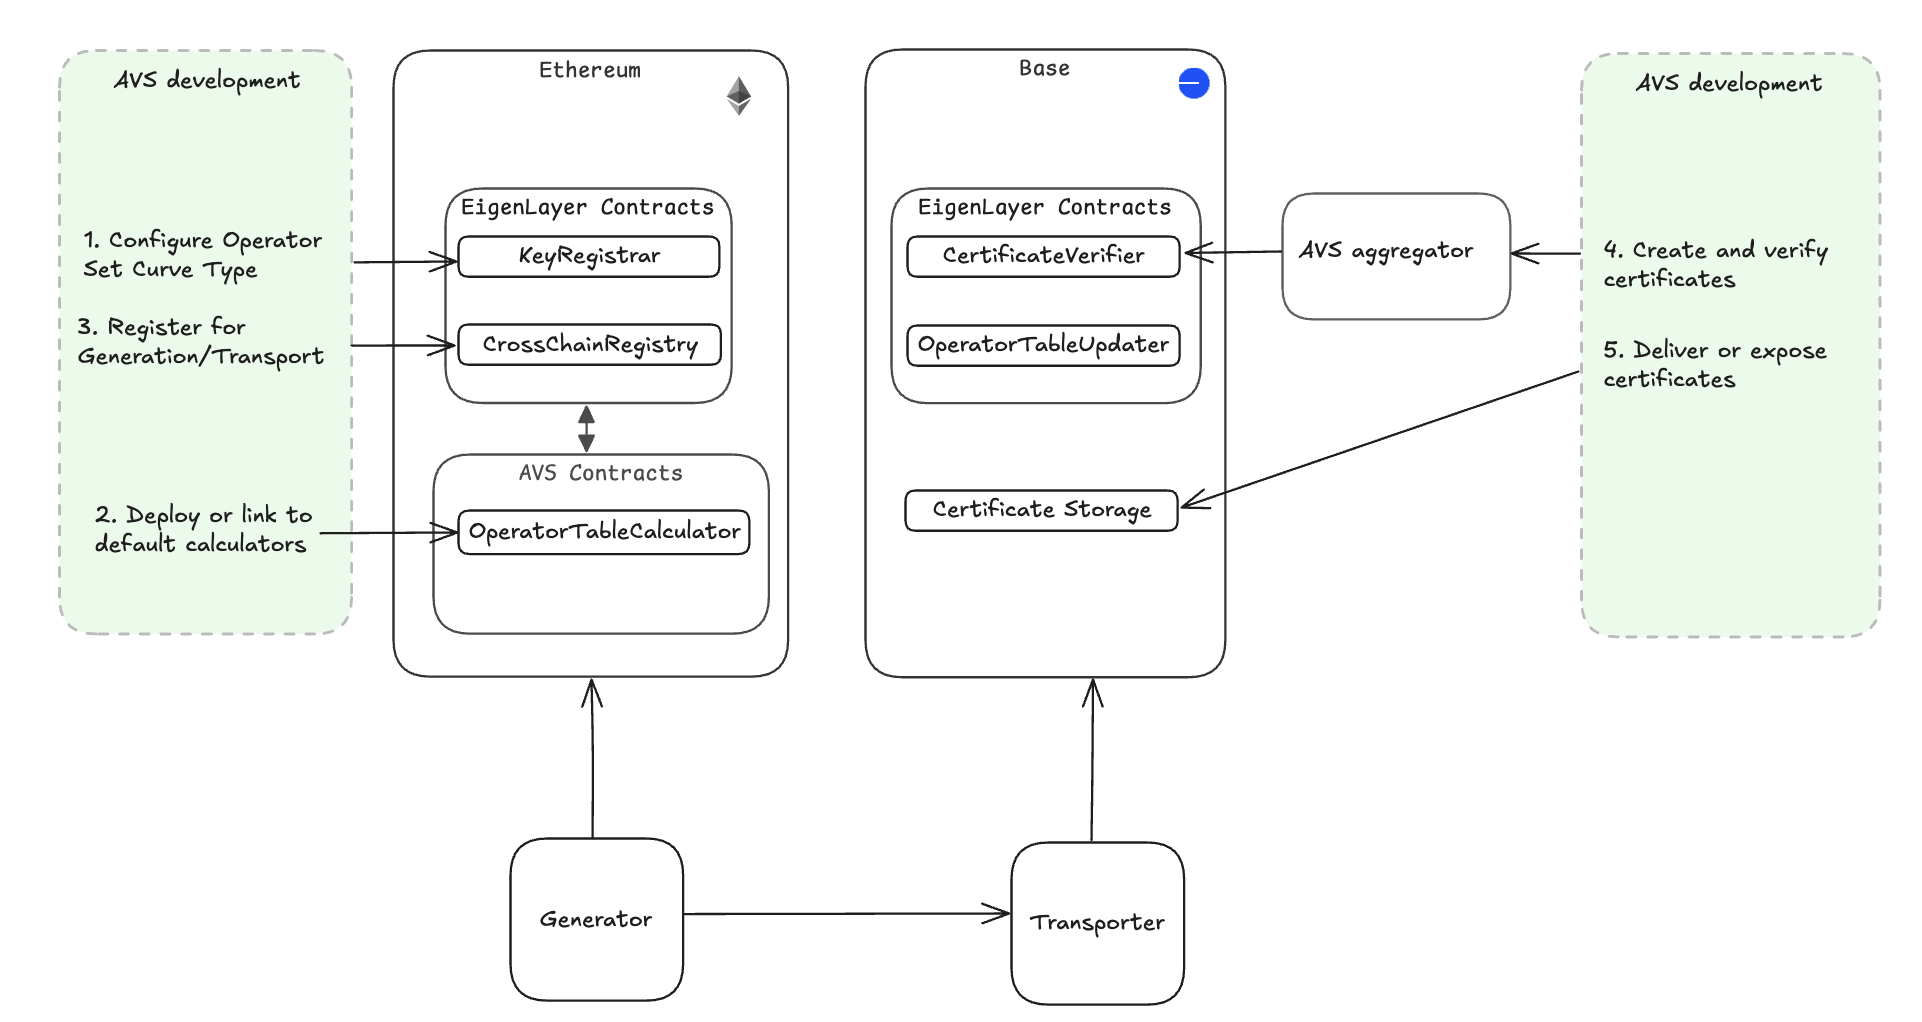
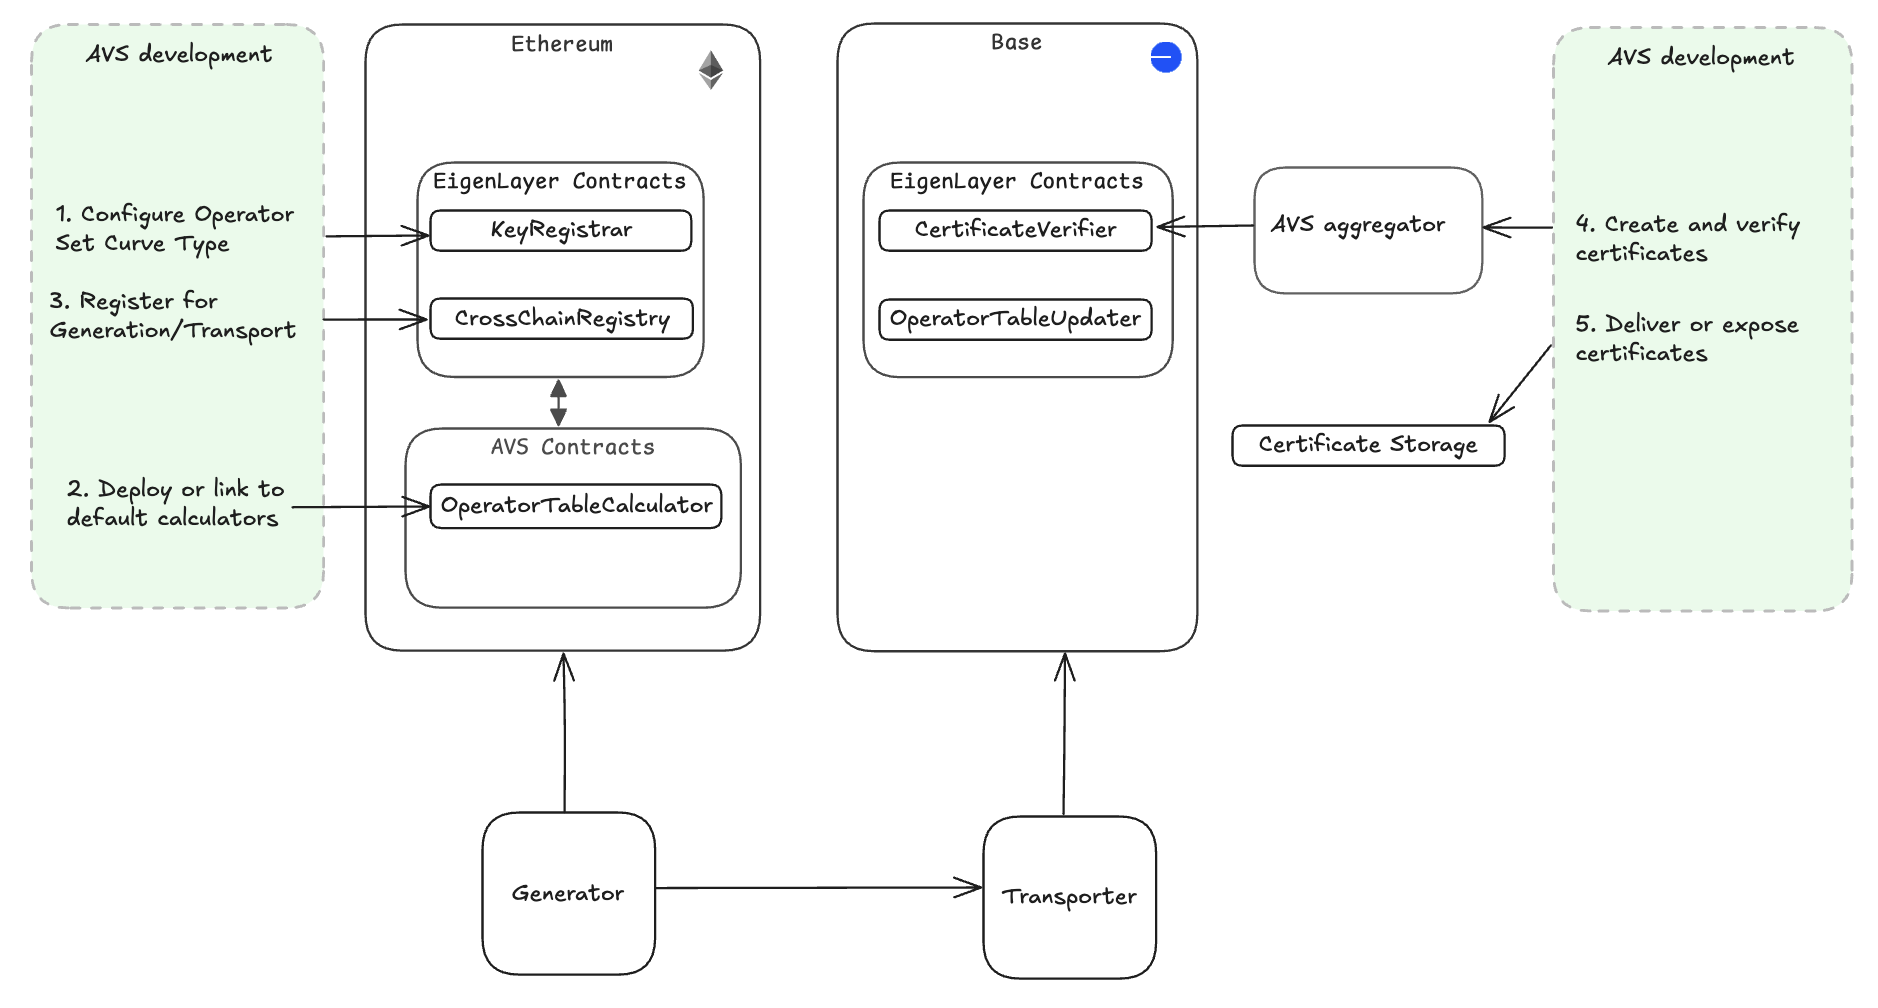
review rework

diff --git a/docs/products/eigenlayer/developers/howto/build/multichain/configure-multichain.md b/docs/products/eigenlayer/developers/howto/build/multichain/configure-multichain.md
@@ -9,7 +9,8 @@ Multichain verification is early-access and in active development. Expect iterat
 Multichain implements [ELIP-008 EigenLayer Multichain Verification](https://github.com/eigenfoundation/ELIPs/blob/main/ELIPs/ELIP-008.md) and is available on testnet in v1.7.0.
 :::
 
-The diagram illustrates the high level steps to configure multichain verification and create a generation reservation: 
+The diagram illustrates the high level steps to configure multichain verification and create a reservation for a participating
+AVS in the multichain verification framework: 
 
 <img src="/img/multichain-registration.png" alt="Multichain Implementation" width="600"/>
 
@@ -17,23 +18,23 @@ Implementers of multichain verification need to:
 1. [Configure Operator Set curve type](#1-configure-operator-set-curve-type)
 2. [Deploy Operator table calculator](#2-deploy-operator-table-calculator)
 3. [(Optional) View the registered cryptographic keys for your Operator Set](#3-optional-view-the-registered-cryptographic-keys-for-your-operator-set)
-4. [Opt-in to multichain](#4-opt-in-to-multichain)
+4. [Opt-in to multichain](#4-opt-in-to-multichain-and-create-a-generation-reservation)
 5. [Wait for deployment](#5-wait-for-deployment)
 
 ## 1. Configure Operator Set Curve Type
 
 1. Decide on the cryptographic curve type for Operator keys. Choose ECDSA for less than 30 Operators, or BN254 BLS for more than 30 Operators.
 2. [Create the Operator Set](../operator-sets/create-operator-sets.md). 
-3. [Set the `KeyType` in `KeyRegistrar`](https://github.com/Layr-Labs/eigenlayer-contracts/blob/v1.7.0-rc.4/docs/permissions/KeyRegistrar).
+3. [Set the `KeyType` in `KeyRegistrar`](https://github.com/Layr-Labs/eigenlayer-contracts/blob/v1.8.0-rc.0/docs/permissions/KeyRegistrar.md).
 
 ## 2. Deploy Operator Table Calculator
 
-Deploy the `OperatorTableCalculator` contract to define stake weighting logic.
+[Deploy the `OperatorTableCalculator` contract to define stake weighting logic.](https://github.com/Layr-Labs/eigenlayer-middleware/blob/dev/docs/middlewareV2/OperatorTableCalculator.md)
 
 To use the as-is unweighted stakes, deploy the template `ECDSATableCalculatorBase` or `BN254TableCalculatorBase` contract.
 The contract can be upgraded. Alternatively, use the onchain [default unweighted contract provided by EigenLabs](https://github.com/Layr-Labs/eigenlayer-middleware?tab=readme-ov-file#current-middlewarev2-testnet-deployment).
 
-To define custom stake weighting logic, override `calculateOperatorTable()` to add:
+To define custom stake weighting logic, override [`calculateOperatorTable()`](https://github.com/Layr-Labs/eigenlayer-middleware/blob/dev/docs/middlewareV2/OperatorTableCalculator.md#calculateoperatortable) to add:
 - Asset weighting (for example, ETH 3500x vs. stablecoins),
 - Stake capping per operator,
 - Oracle price feed integration,
@@ -60,7 +61,7 @@ The `staleness` parameter is the length of time that a [certificate](verificatio
 A `staleness` period of `0` completely removes staleness checks, allowing certificates to be validated regardless of their timestamp. The `staleness` must be greater than the update cadence of the Operator tables (communciated offchain 
 and currently 7 days). 
 
-The caller must have UAM permissions for `operatorSet.avs`. 
+The caller must have [UAM permissions](../../../concepts/uam-for-avs.md) for `operatorSet.avs`. 
 
 ## 5. Wait for deployment
 

diff --git a/docs/products/eigenlayer/developers/howto/build/multichain/consume-certificates.md b/docs/products/eigenlayer/developers/howto/build/multichain/consume-certificates.md
@@ -1,25 +1,28 @@
 ---
-sidebar_position: 5
+sidebar_position: 4
 title: Consume certificates
 ---
 
-The AVS consumer is a smart contract, application, or protocol integrating with an AVS. They receive, verify, 
-and act on certificates returned from the AVS. To do that, consumers:
+## Obtain, Verify, and Act On Certificates
 
-1. Obtain a Certificate. Depending on the AVS integration model, consumers certificates by:
+An AVS consumer is a smart contract, application, or protocol integrating with an AVS. The consumer receives, verifies, 
+and acts on certificates returned from the AVS. To do that, consumers:
+
+1. Obtain a Certificate. Depending on the AVS integration model, consumers obtain certificates by:
    * Making a request (for example, API call or onchain function) to the AVS.
+   * Reading onchain.
    * Polling from decentralized storage.
    
     :::important
     If retrieving from a cache, consumers need to check the staleness period against the certificate.
-    The `staleness` period is set in the [`CrossChainRegistry` by the verification service](configure-multichain).
+    The `staleness` period is set in the [`CrossChainRegistry` by the AVS](configure-multichain).
     :::
 
-2. Use the `CertificateVerifier` contract to [verify the certificate](verification-methods.md). 
+2. Use the [`CertificateVerifier`](https://github.com/Layr-Labs/eigenlayer-contracts/blob/v1.8.0-rc.0/docs/multichain/destination/CertificateVerifier.md) contract to [verify the certificate](verification-methods.md). 
 
 3. Once the verification passes, the consumer can act on the AVS output. For example:
-   * Use the AVS result (for example, a price, proof, or attestation)
-   * Trigger follow-up logic (for example, settlement, payout, update)
+   * Use the AVS result (for example, a price, proof, or attestation).
+   * Trigger follow-up logic (for example, settlement, payout, update).
    * Log or cache the certificate for transparency or auditability.
 
 ## Integration Examples
@@ -60,5 +63,5 @@ The `staleness` period is set in the [`CrossChainRegistry` by the verification s
 
 ## Hybrid
 
-The hybrid model queries cached certificates in the first instance, and if the certificate is stale or invalid, retrieves
-from certificate storage.
+The hybrid model queries cached certificates in the first instance, and if the certificate is stale or invalid, obtains a
+new certificate using the [AVS integration model](#obtain-verify-and-act-on-certificates).

diff --git a/docs/products/eigenlayer/developers/howto/build/multichain/implement-certificate-verification.md b/docs/products/eigenlayer/developers/howto/build/multichain/implement-certificate-verification.md
@@ -8,12 +8,16 @@ consumers. This includes:
 1. [Creating and verifying certificates](#create-and-verify-certificates).
 2. [Delivering or exposing certificates](#deliver-or-expose-certificates).
 
+:::tip
+The [Hourglass template](https://github.com/Layr-Labs/hourglass-avs-template) includes a reference implementation for certificate creation using an AVS aggregator.
+:::
+
 ## Create and Verify Certificates
 
 To create a certificate for multiple Operators: 
 1. Implement the offchain component to collect signed certificates from Operators. 
 2. [Create the certificate](https://github.com/eigenfoundation/ELIPs/blob/main/ELIPs/ELIP-008.md#certificates--verification). Ensure the certificate includes the correct `referenceTimestamp` that corresponds to the latest 
-(or desired) stake table version transported to the target chain.
+(or desired) stake table version transported to the target chain. The `referenceTimestamp` must match the stake table exactly.
 
 Typically, a certificate consists of an aggregation of Operator signatures that is [verified against stake tables using 
 the `CertificateVerifier`](verification-methods.md). In the case of a single Operator, the Operator can produce a certificate
@@ -22,7 +26,7 @@ with only their signature.
 ## Deliver or Expose Certificates
 
 Once created, certificates need to be delivered to Consumers, or stored in a location available to Consumers.  Options include:
-* Deliver to Consumer in response to requests 
+* Deliver to Consumer in response to requests.
 * Push certificate to storage (for example, IPFS or L2 contract). 
 
 The [required threshold (proportional or nominal)](verification-methods.md) for verification also needs to be supplied to the Consumer. 

diff --git a/docs/products/eigenlayer/developers/howto/build/multichain/multichain-howto-overview.md b/docs/products/eigenlayer/developers/howto/build/multichain/multichain-howto-overview.md
@@ -7,7 +7,9 @@ The following diagram shows:
 * The contracts AVS developers interact with, or specify, to build a multichain AVS
 * Offchain components AVS developers implement to create and verify certificates. 
 
-In this diagram, the AVS aggregator and the Certificate Storage contract illustrate one possible approach to implementing multichain verification. 
+In this diagram, the AVS aggregator and the Certificate Storage illustrate one possible approach to implementing 
+multichain verification. The architecture of these components is determined and implemented by the AVS and not part of
+the multichain verification framework. For a reference implementation of these components, refer to the [Hourglass template](https://github.com/Layr-Labs/hourglass-avs-template).
 
 <img src="/img/implement-multichain.png" alt="Multichain Implementation Overview"/>
 
@@ -20,7 +22,7 @@ Onchain components of the multichain framework can also be used by AVS consumers
 certificates.
 
 :::tip
-Using the Hourglass template provides a multichain implementation that significantly reduces implementation effort.
+Using the [Hourglass template](https://github.com/Layr-Labs/hourglass-avs-template) provides a multichain implementation that significantly reduces implementation effort.
 :::
 
 To get started implementing multichain verification, refer to [Configure a Multichain AVS](configure-multichain.md).

diff --git a/docs/products/eigenlayer/developers/howto/build/multichain/verification-methods.md b/docs/products/eigenlayer/developers/howto/build/multichain/verification-methods.md
@@ -1,5 +1,5 @@
 ---
-sidebar_position: 3
+sidebar_position: 5
 title: Verify certificates
 ---
 
@@ -12,7 +12,7 @@ This topic includes:
 
 Choose from the following verification methods depending on your trust requirements:
 1. [Direct - Call `CertificateVerifier` functions directly.](#direct-verification-functions)
-2. AVS-wrapped - Use verification contract provided by the verifiable service.
+2. AVS-wrapped - Use verification contract provided by the AVS.
 3. [Custom-wrapped - Add your own logic wrapping `CertificateVerifier`.](#custom-verification-logic-example)
 
 ## Direct Verification Functions
